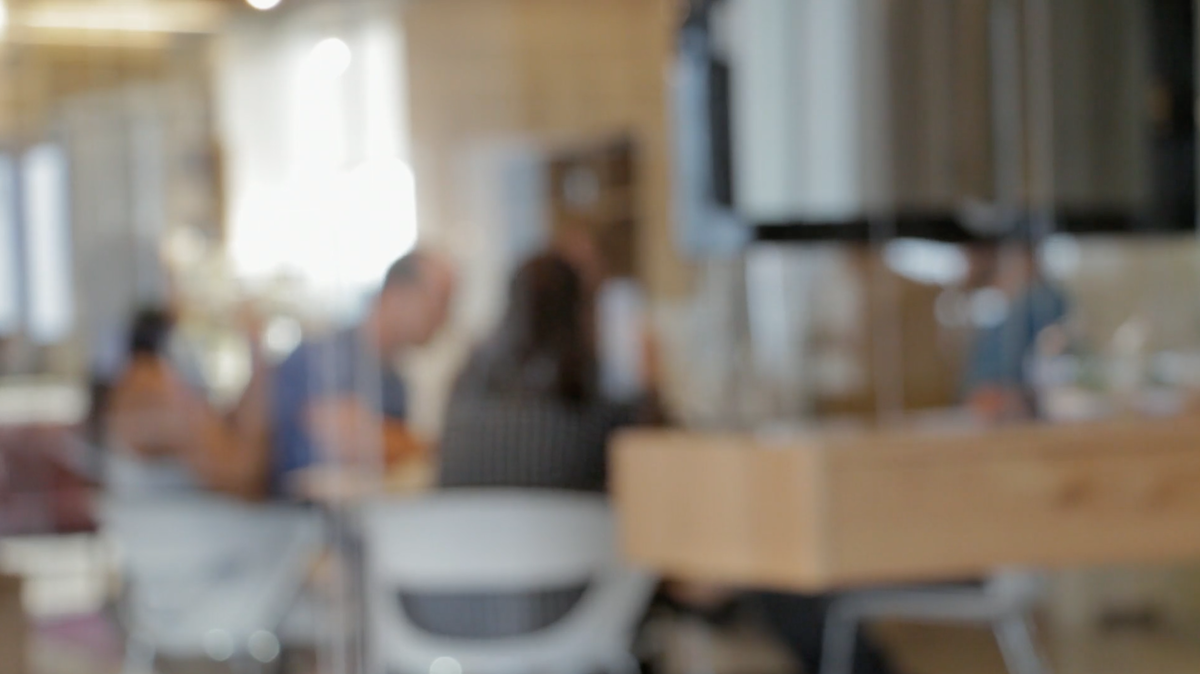
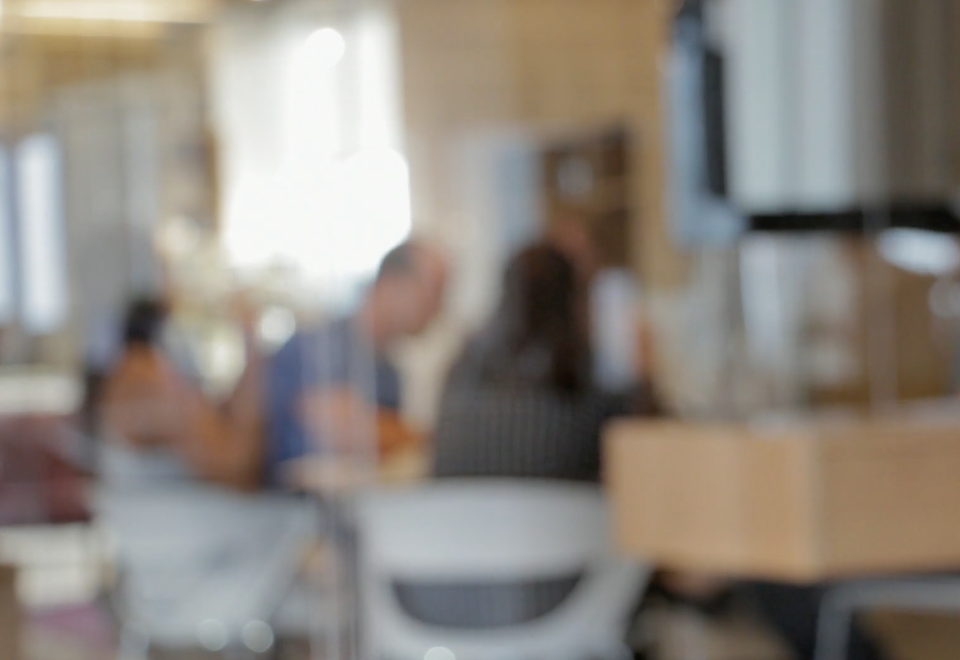
image edit
reduced the extreme landscaping size of background image

diff --git a/unit_8/css/style.css b/unit_8/css/style.css
@@ -1,11 +1,12 @@
 @import url('https://fonts.googleapis.com/css?family=Arapey|Open+Sans+Condensed:300');
 
 body {
-  text-align: center;
-	font-size: 30px;
   background: url("https://ehegdahl.github.io/unit_3/images/background.png") repeat 0 0;
   background-size: 100% auto;
-	/*background-repeat: no-repeat;*/
+  background-repeat: no-repeat;
+  min-height: 800px;
+  text-align: center;
+	font-size: 30px;
   color: #fff;
 }
 
@@ -42,7 +43,7 @@ img {
 
 #article_one {
 	background-color: rgba(255,255,255,.5);
-	color: gray;
+	color: $fff;
 	padding: 1em;
 }
 
@@ -140,6 +141,7 @@ footer {
 
 @media only screen and (min-width: 780px) {
 	body {
+    max-width: 1180px;
 }
 	#nav_one {
 		float: none;
@@ -147,8 +149,7 @@ footer {
 	}
 
 	#section_one {
-		max-width: 580px;
-		min-width: 500px
+		max-width: 500px;
 	}
 
 	section_two, left, middle, right {

diff --git a/unit_8/index.html b/unit_8/index.html
@@ -3,7 +3,7 @@
 <head>
 	<link rel="stylesheet" type="text/css" href="css/style.css">
 	<meta name="viewport" content="width=device-width, initial-scale=1">
-	<title>Life Work Coaching</title>
+	<title>Life | Work | Coach</title>
 </head>
 	<body>
 		<header>
@@ -23,7 +23,7 @@
 				</ul>
 				<hr>
 	        	<p>Long Island, New York<br>[ 917 ] 577 . 9377</p>
-	            <p>Looking to start a conversation?<br>Click the ' WORK WITH ME ' link above</p>
+	            <p>Looking to start a conversation?<br>Click ' WORK WITH ME ' above</p>
 			</section>
 		</header>
 		<main>
